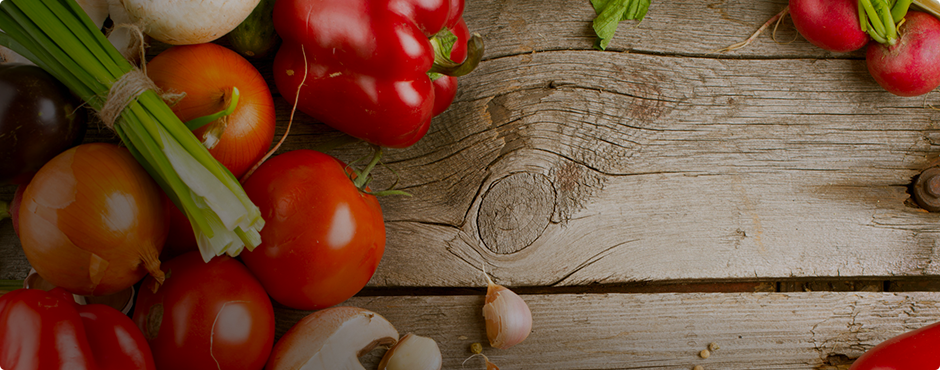
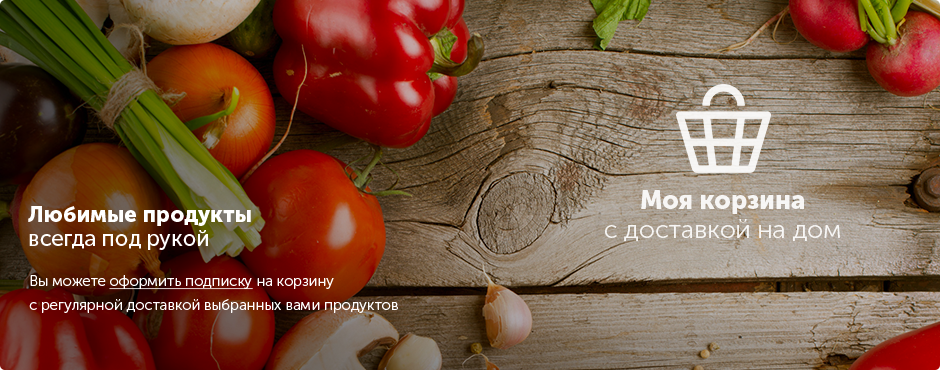
Слайдер с банерами

diff --git a/pages/foods-order-2.html b/pages/foods-order-2.html
@@ -9,7 +9,7 @@
   <link rel="stylesheet" type="text/css" href="../styles/styles.css">
 </head>
 <body>
-  <header class="foods-header">
+  <header class="foods-header foods-header--dark">
     <div class="foods-container">
       <nav class="foods-header__menu">
         <ul>
@@ -18,37 +18,104 @@
           <li><a href="#" class="foods-header__menu-item foods-header__menu-item--delivery">Доставка</a></li>
           <li><a href="#" class="foods-header__menu-item foods-header__menu-item--sales">Акции и скидки</a></li>
         </ul>
+        <button class="foods-header__menu-button"></button>
       </nav>
       <div class="foods-header__personal">
         <ul>
-          <li><a href="#" class="foods-header__personal-item foods-header__personal-item--user-name">Игорь</a></li>
+          <li><a href="#" class="foods-header__personal-item foods-header__personal-item--user-name foods-header__personal-item--active">Игорь</a></li>
           <li><a href="#" class="foods-header__personal-item foods-header__personal-item--subscription">Подписка</a></li>
           <li><a href="#" class="foods-header__personal-item foods-header__personal-item--favorites">Избранное</a></li>
           <li><a href="#" class="foods-header__personal-item foods-header__personal-item--cart"><span>Корзина</span> <span>3</span></a>
         </ul>
+        <button class="foods-header__personal-button"></button>
       </div>
     </div>
   </header>
 
   <div class="foods-container">
-    <div class="foods-top">
+    <div class="foods-top foods-top--dark">
       <div class="foods-top__logo">
         <a href="#" class="foods-top__logo-image"></a>
       </div>
       <div class="foods-top__search">
         <form class="foods-top__search-form" name="foods-top__search-form" method="GET" action="#">
           <input type="search" name="foods-top__search-field" placeholder="Поиск по товарам">
-          <input type="submit" name="foods-top__search-submit" value="">
+          <input type="reset" name="foods-top__search-reset" value="">
+          <input type="submit" name="foods-top__search-submit" class="foods-top__search-submit foods-top__search-submit--button" value="">
         </form>
+        <button class="advanced-search__button">Расширенный поиск</button>
         <div class="foods-top__search-example">
           <p>Например, <a href="#" class="inline-link">осетрина к Новому году</a></p>
-        </div>
+        </div>          
       </div>
+      <form name="advanced-search__form" method="GET" action="#" class="advanced-search__form">
+        <h2>Расширенный поиск</h2>
+        <ul>
+          <li>
+            <select>
+              <option>Все категории</option>
+              <option>Овощи и фрукты</option>
+              <option>Молочная продукция</option>
+            </select>
+          </li>
+          <li>
+            <select>
+              <option>Тип товара</option>
+              <option>Любой тип товара</option>
+            </select>
+          </li>
+          <li>
+            <select>
+              <option>Продавец</option>
+              <option>Любой продавец</option>
+            </select>
+          </li>
+          <li>
+            <select>
+              <option>Любое из слов</option>
+              <option>Все слова</option>
+            </select>
+          </li>
+          <li>
+            <input type="text" name="advanced-search__key-words" placeholder="Ключевые слова">
+          </li>
+          <li>
+            <input type="text" name="advanced-search__exclude-words" placeholder="Исключить слова">
+          </li>
+        </ul>
+          
+        <h3>Дополнительные параметры</h3>
+        <ul>
+          <li>
+            <input type="text" name="advanced-search__author" placeholder="Автор">
+          </li>
+          <li>
+            <input type="text" name="advanced-search__publishing-house" placeholder="Издательство">
+          </li>
+          <li>
+            <input type="text" name="advanced-search__cover" placeholder="Переплет">
+          </li>
+
+          <li class="advanced-search__range">
+            <p><span>Цена</span> 
+              <input type="text" name="advanced-search__min-price" id="advanced-search__min-price" readonly=""> — 
+              <input type="text" name="advanced-search__max-price" id="advanced-search__max-price" readonly="">
+            </p>
+            <div class="advanced-search__price-range"></div>
+          </li>
+          <li>
+            <input type="submit" name="advanced-search__submit" class="button" value="Начать расширенный поиск">
+          </li>
+          <li>
+            <input type="reset" name="advanced-search__reset" class="button" value="Отмена">
+          </li>
+        </ul>
+      </form>
     </div>
   </div>
 
   <div class="foods-container">
-    <div class="foods-content">
+    <div class="foods-content foods-content--dark">
       
       <a href="#" class="exit-button exit-button--order">Выход</a>
 
@@ -62,6 +129,17 @@
 
       <section class="foods-section foods-section--order">
         <h1>Оформление заказа</h1>
+
+        <div class="foods-subsection foods-subsection--order foods-subsection--mobile">
+          <ul>
+            <li><a href="#" class="foods-subsection__item foods-subsection__item--personal">Личные данные</a></li>
+            <li><a href="#" class="foods-subsection__item foods-subsection__item--cart foods-subsection__item--active">Корзина</a></li>
+            <li><a href="#" class="foods-subsection__item foods-subsection__item--subscription">Подписка на продукты</a></li>
+            <li><a href="#" class="foods-subsection__item foods-subsection__item--history">Прошлые покупки</a></li>
+            <li><a href="#" class="foods-subsection__item foods-subsection__item--favorites">Избранное</a></li>
+          </ul>
+          <a href="#" class="exit-button">Выход</a>
+        </div>
         
         <div class="foods-order">
           

diff --git a/scripts/main.js b/scripts/main.js
@@ -60,12 +60,54 @@ $(document).click(function (e) {
   }
 });
 
-$(window).resize(function() {
+/*$(window).resize(function() {
   if ($(".foods-container").css("width") == "1180px") {
     $(".foods-top").removeClass("foods-top--dark");
   } else {
     $(".foods-top").addClass("foods-top--dark");
   }
+});*/
+
+
+/* Foods slider */
+
+function foodsSlider() {
+  for (var i = 0; i < $(".foods-slider__gallery-image").length; i++) {
+    if ($($(".foods-slider__gallery-image")[i]).hasClass("foods-slider__gallery-image--active")) {
+      if (i == 3) {
+        $($(".foods-slider__gallery-image")[i]).removeClass("foods-slider__gallery-image--active");
+        $($(".foods-slider__gallery-image")[0]).addClass("foods-slider__gallery-image--active");
+        for (var j = 0; j < $(".foods-slider__pagination-button").length; j++) {
+          $($(".foods-slider__pagination-button")[j]).removeClass("foods-slider__pagination-button--active");
+        }
+        $($(".foods-slider__pagination-button")[i]).removeClass("foods-slider__pagination-button--active");
+        $($(".foods-slider__pagination-button")[0]).addClass("foods-slider__pagination-button--active");
+        break;
+      } else {
+        $($(".foods-slider__gallery-image")[i]).removeClass("foods-slider__gallery-image--active");
+        $($(".foods-slider__gallery-image")[i + 1]).addClass("foods-slider__gallery-image--active");
+        for (var j = 0; j < $(".foods-slider__pagination-button").length; j++) {
+          $($(".foods-slider__pagination-button")[j]).removeClass("foods-slider__pagination-button--active");
+        }
+        $($(".foods-slider__pagination-button")[i]).removeClass("foods-slider__pagination-button--active");
+        $($(".foods-slider__pagination-button")[i + 1]).addClass("foods-slider__pagination-button--active");
+        break;
+      }
+    }
+  }
+};
+
+setInterval(foodsSlider, 3000);
+
+$(".foods-slider__pagination-button").click(function(e) {
+  e.preventDefault();
+  for (var i = 0; i < $(".foods-slider__pagination-button").length; i++) {
+    $($(".foods-slider__pagination-button")[i]).removeClass("foods-slider__pagination-button--active");
+    $($(".foods-slider__gallery-image")[i]).removeClass("foods-slider__gallery-image--active");
+  }
+  $(this).addClass("foods-slider__pagination-button--active");
+  var num = $(this).attr("class").charAt(65);
+  $($(".foods-slider__gallery-image")[num - 1]).addClass("foods-slider__gallery-image--active");
 });
 
 
@@ -156,7 +198,7 @@ $(".add-review-form__reset").click(function() {
 /* Foods subsection - buttons */
 
 $(window).resize(function() {
-  if ($(".foods-container").css("width") == "690px") {
+  if (($(".foods-container").css("width") == "690px") && ($(".foods-top").hasClass("foods-top--dark"))) {
     $(".foods-subsection__item").text("");
     $(".exit-button").text("user@mail.com");
   } else {
@@ -170,7 +212,7 @@ $(window).resize(function() {
 });
 
 $(document).ready(function() {
-  if ($(".foods-container").css("width") == "690px") {
+  if (($(".foods-container").css("width") == "690px") && ($(".foods-top").hasClass("foods-top--dark"))) {
     $(".foods-subsection__item").text("");
     $(".exit-button").text("user@mail.com");
   } else {

diff --git a/pages/foods-main.html b/pages/foods-main.html
@@ -222,19 +222,21 @@
           <div class="foods-slider__gallery-image foods-slider__gallery-image--3"></div> -->
 
           <img src="../images/pages/main/foods-slider__gallery-image-1.png" class="foods-slider__gallery-image foods-slider__gallery-image--1 foods-slider__gallery-image--active" alt="foods-slider__gallery-image--1">
-          <img src="../images/pages/main/foods-slider__gallery-image-1.png" class="foods-slider__gallery-image foods-slider__gallery-image--2" alt="foods-slider__gallery-image--2">
-          <img src="../images/pages/main/foods-slider__gallery-image-1.png" class="foods-slider__gallery-image foods-slider__gallery-image--3" alt="foods-slider__gallery-image--3">
+          <img src="../images/pages/main/foods-slider__gallery-image-2.png" class="foods-slider__gallery-image foods-slider__gallery-image--2" alt="foods-slider__gallery-image--2">
+          <img src="../images/pages/main/foods-slider__gallery-image-3.png" class="foods-slider__gallery-image foods-slider__gallery-image--3" alt="foods-slider__gallery-image--3">
+          <img src="../images/pages/main/foods-slider__gallery-image-4.png" class="foods-slider__gallery-image foods-slider__gallery-image--4" alt="foods-slider__gallery-image--4">
         </div>
         <div class="foods-slider__pagination">
           <ul>
             <li><a href="#" class="foods-slider__pagination-button foods-slider__pagination-button--1 foods-slider__pagination-button--active"></a></li>
             <li><a href="#" class="foods-slider__pagination-button foods-slider__pagination-button--2"></a></li>
             <li><a href="#" class="foods-slider__pagination-button foods-slider__pagination-button--3"></a></li>
+            <li><a href="#" class="foods-slider__pagination-button foods-slider__pagination-button--4"></a></li>
           </ul>
         </div>
-        <p class="promo-text promo-text--header"><b>Любимые продукты</b> всегда под рукой</p>
+        <!-- <p class="promo-text promo-text--header"><b>Любимые продукты</b> всегда под рукой</p>
         <p class="promo-text promo-text--description">Вы можете <a href="#" class="inline-link">оформить подписку</a> на корзину с&nbsp;регулярной доставкой выбранных Вами продуктов</p>
-        <p class="promo-text promo-text--cart"><b>Моя корзина</b> с&nbsp;доставкой на дом</p>
+        <p class="promo-text promo-text--cart"><b>Моя корзина</b> с&nbsp;доставкой на дом</p> -->
       </div>
       
       <div class="foods-promo">

diff --git a/pages/foods-search.html b/pages/foods-search.html
@@ -18,6 +18,7 @@
           <li><a href="#" class="foods-header__menu-item foods-header__menu-item--delivery">Доставка</a></li>
           <li><a href="#" class="foods-header__menu-item foods-header__menu-item--sales">Акции и скидки</a></li>
         </ul>
+        <button class="foods-header__menu-button"></button>
       </nav>
       <div class="foods-header__personal">
         <ul>
@@ -26,6 +27,7 @@
           <li><a href="#" class="foods-header__personal-item foods-header__personal-item--favorites">Избранное</a></li>
           <li><a href="#" class="foods-header__personal-item foods-header__personal-item--cart"><span>Корзина</span> <span>3</span></a>
         </ul>
+        <button class="foods-header__personal-button"></button>
       </div>
     </div>
   </header>

diff --git a/styles/styles.css b/styles/styles.css
@@ -593,7 +593,7 @@ input:focus {
 .foods-top__search--active .foods-top__search-quantity {
   position: absolute;
   left: -241px;
-  bottom: -377px;
+  bottom: -359px;
 }
 
 .foods-top__search-form {
